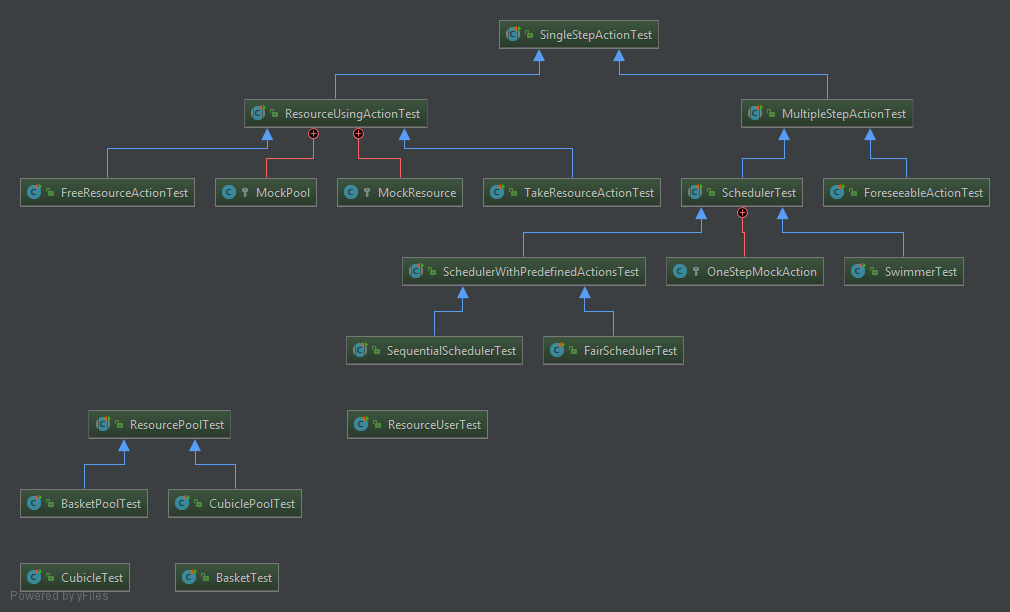
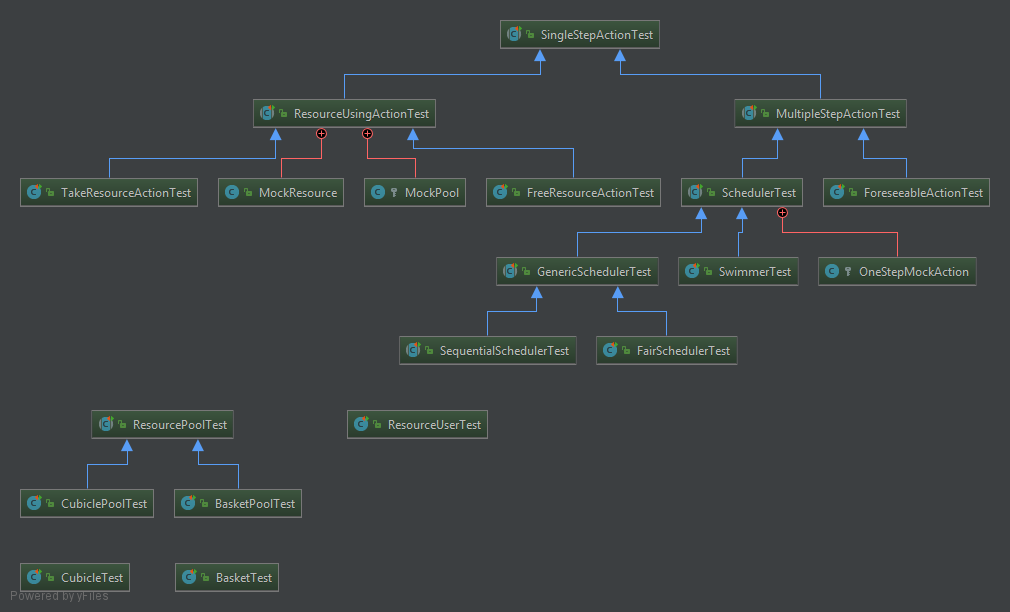
clean

diff --git a/src/test/java/fil/coo/actions/interfaces/GenericSchedulerTest.java b/src/test/java/fil/coo/actions/interfaces/GenericSchedulerTest.java
@@ -2,16 +2,49 @@ package fil.coo.actions.interfaces;
 
 import fil.coo.exception.ActionFinishedException;
 import fil.coo.exception.SchedulerStartedException;
+import fil.coo.resources.client.Swimmer;
+import org.junit.Before;
 import org.junit.Test;
 
 import static org.junit.Assert.*;
 
 /**
- * Tests for all classes extending {@link Scheduler} by using a predefined amount of {@link fil.coo.actions.interfaces.SchedulerTest.OneStepMockAction}.
+ * Tests for all classes extending {@link Scheduler} by using a predefined amount of {@link OneStepMockAction} according to {@link #NB_ACTIONS}.
+ * <br>All concrete schedulers that have their own predefined actions such as {@link Swimmer} should not extend this test class.
  */
-public abstract class SchedulerWithPredefinedActionsTest extends SchedulerTest {
+public abstract class GenericSchedulerTest extends SchedulerTest {
 
     private static final int NB_ACTIONS = 2;
+
+    /**
+     * Creates the scheduler and calls adds {@link #NB_ACTIONS} of {@link OneStepMockAction}
+     */
+    @Before
+    public void setupScheduler() {
+        this.scheduler = createScheduler();
+        initScheduler(this.scheduler);
+    }
+
+    /**
+     * @return a scheduler created with {@link #initScheduler(Scheduler)}
+     */
+    @Override
+    protected Action createAction() {
+        Scheduler scheduler = createScheduler();
+        initScheduler(scheduler);
+        return scheduler;
+    }
+
+
+    private void initScheduler(Scheduler scheduler) {
+        for (int i = 0; i < NB_ACTIONS; i++) {
+            try {
+                scheduler.addAction(new OneStepMockAction());
+            } catch (ActionFinishedException | SchedulerStartedException e) {
+                e.printStackTrace();
+            }
+        }
+    }
 
     @Test
     public void testAddActionWhenReadyIsOk() throws ActionFinishedException, SchedulerStartedException {

diff --git a/src/test/java/fil/coo/actions/interfaces/SchedulerTest.java b/src/test/java/fil/coo/actions/interfaces/SchedulerTest.java
@@ -9,40 +9,25 @@ import static org.junit.Assert.fail;
 
 public abstract class SchedulerTest extends MultipleStepActionTest {
 
-    private static final int NB_ACTIONS = 2;
-
     protected Scheduler scheduler;
 
-    protected abstract Scheduler createScheduler();
-
     /**
-     * Creates the scheduler and calls adds {@link #NB_ACTIONS} of {@link OneStepMockAction}
+     * Initializes {@link #scheduler} with {@link #createScheduler()}
      */
     @Before
     public void setupScheduler() {
         this.scheduler = createScheduler();
-        initScheduler(this.scheduler);
     }
 
     /**
-     * @return a scheduler created with {@link #initScheduler(Scheduler)}
+     * @return a scheduler created with {@link #createScheduler()}
      */
     @Override
     protected Action createAction() {
-        Scheduler scheduler = createScheduler();
-        initScheduler(scheduler);
-        return scheduler;
+        return createScheduler();
     }
 
-    private void initScheduler(Scheduler scheduler) {
-        for (int i = 0; i < NB_ACTIONS; i++) {
-            try {
-                scheduler.addAction(new OneStepMockAction());
-            } catch (ActionFinishedException | SchedulerStartedException e) {
-                e.printStackTrace();
-            }
-        }
-    }
+    protected abstract Scheduler createScheduler();
 
     @Test(expected = SchedulerStartedException.class)
     public void testAddActionWhenAlreadyStartedThrowsException() throws ActionFinishedException, SchedulerStartedException {
@@ -64,7 +49,6 @@ public abstract class SchedulerTest extends MultipleStepActionTest {
             fail("Manual setup should ensure correct conditions for test");
         }
     }
-
 
     protected class OneStepMockAction extends Action {
 

diff --git a/src/test/java/fil/coo/actions/scheduler/FairSchedulerTest.java b/src/test/java/fil/coo/actions/scheduler/FairSchedulerTest.java
@@ -2,7 +2,7 @@ package fil.coo.actions.scheduler;
 
 import fil.coo.actions.action.ForeseeableAction;
 import fil.coo.actions.interfaces.Scheduler;
-import fil.coo.actions.interfaces.SchedulerWithPredefinedActionsTest;
+import fil.coo.actions.interfaces.GenericSchedulerTest;
 import fil.coo.exception.ActionFinishedException;
 import fil.coo.exception.SchedulerStartedException;
 import org.junit.Test;
@@ -11,7 +11,7 @@ import static org.junit.Assert.assertEquals;
 import static org.junit.Assert.assertFalse;
 import static org.junit.Assert.assertTrue;
 
-public class FairSchedulerTest extends SchedulerWithPredefinedActionsTest {
+public class FairSchedulerTest extends GenericSchedulerTest {
 
     @Override
     protected Scheduler createScheduler() {

diff --git a/src/test/java/fil/coo/actions/interfaces/ResourceUsingActionTest.java b/src/test/java/fil/coo/actions/interfaces/ResourceUsingActionTest.java
@@ -1,8 +1,5 @@
-package fil.coo.actions.action;
+package fil.coo.actions.interfaces;
 
-import fil.coo.actions.interfaces.Action;
-import fil.coo.actions.interfaces.ResourceUsingAction;
-import fil.coo.actions.interfaces.SingleStepActionTest;
 import fil.coo.resources.client.ResourceUser;
 import fil.coo.resources.pools.ResourcePool;
 import fil.coo.resources.resource.interfaces.Resource;
@@ -57,7 +54,7 @@ public abstract class ResourceUsingActionTest extends SingleStepActionTest {
         return initResourceUsingAction();
     }
 
-    protected class MockResource implements Resource {
+    public class MockResource implements Resource {
 
         @Override
         public String description() {

diff --git a/src/test/java/fil/coo/actions/scheduler/SequentialSchedulerTest.java b/src/test/java/fil/coo/actions/scheduler/SequentialSchedulerTest.java
@@ -5,14 +5,14 @@ import static org.junit.Assert.assertFalse;
 import static org.junit.Assert.assertTrue;
 
 import fil.coo.actions.interfaces.Scheduler;
-import fil.coo.actions.interfaces.SchedulerWithPredefinedActionsTest;
+import fil.coo.actions.interfaces.GenericSchedulerTest;
 import org.junit.Test;
 
 import fil.coo.actions.action.ForeseeableAction;
 import fil.coo.exception.ActionFinishedException;
 import fil.coo.exception.SchedulerStartedException;
 
-public abstract class SequentialSchedulerTest extends SchedulerWithPredefinedActionsTest {
+public abstract class SequentialSchedulerTest extends GenericSchedulerTest {
 
     @Override
     protected Scheduler createScheduler() {

diff --git a/src/test/java/fil/coo/resources/client/SwimmerTest.java b/src/test/java/fil/coo/resources/client/SwimmerTest.java
@@ -28,11 +28,17 @@ public class SwimmerTest extends SchedulerTest {
     private CubiclePool cubiclePool;
     private Swimmer swimmer;
 
+    /**
+     * Initializes the class instance {@link #swimmer}. This instance is different than the instance of {@link Swimmer} used in the inherited tests.
+     */
     @Before
     public void setup() {
         this.swimmer = initSwimmer();
     }
 
+    /**
+     * @return a new instance of {@link Swimmer} for tests inherited from {@link SchedulerTest}
+     */
     @Override
     protected Scheduler createScheduler() {
         return initSwimmer();

diff --git a/src/main/java/fil/coo/resources/client/Swimmer.java b/src/main/java/fil/coo/resources/client/Swimmer.java
@@ -49,7 +49,6 @@ public class Swimmer extends SequentialScheduler {
 
     /**
      * Add the predefined actions that all swimmers will do. Only one method because a swimmer's actions are predefined and depend on one another because of the order of execution.
-     * <br>It's like trying to separate the baking process in a recipe. The time and temperature is dependant on what ingredients compose the recipe.
      */
     private void initActionList() {
 

diff --git a/src/test/java/fil/coo/actions/action/FreeResourceActionTest.java b/src/test/java/fil/coo/actions/action/FreeResourceActionTest.java
@@ -1,6 +1,7 @@
 package fil.coo.actions.action;
 
 import fil.coo.actions.interfaces.ResourceUsingAction;
+import fil.coo.actions.interfaces.ResourceUsingActionTest;
 import fil.coo.exception.ActionFinishedException;
 import fil.coo.exception.NoFreeResourcesException;
 import fil.coo.exception.TooManyResourcesException;

diff --git a/src/test/java/fil/coo/actions/action/TakeResourceActionTest.java b/src/test/java/fil/coo/actions/action/TakeResourceActionTest.java
@@ -1,6 +1,7 @@
 package fil.coo.actions.action;
 
 import fil.coo.actions.interfaces.ResourceUsingAction;
+import fil.coo.actions.interfaces.ResourceUsingActionTest;
 import fil.coo.exception.ActionFinishedException;
 import fil.coo.exception.NoFreeResourcesException;
 import fil.coo.exception.TooManyResourcesException;
